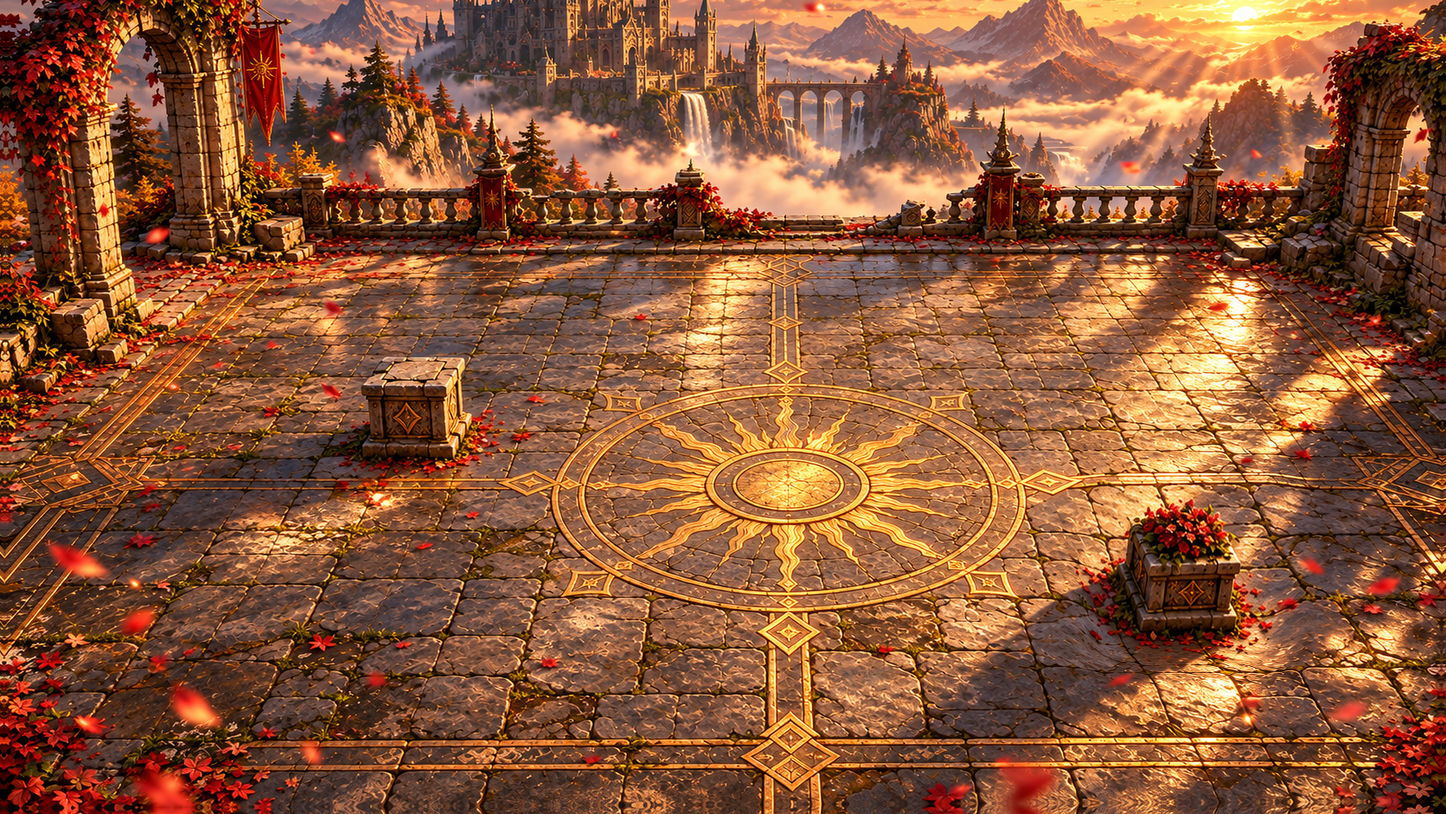
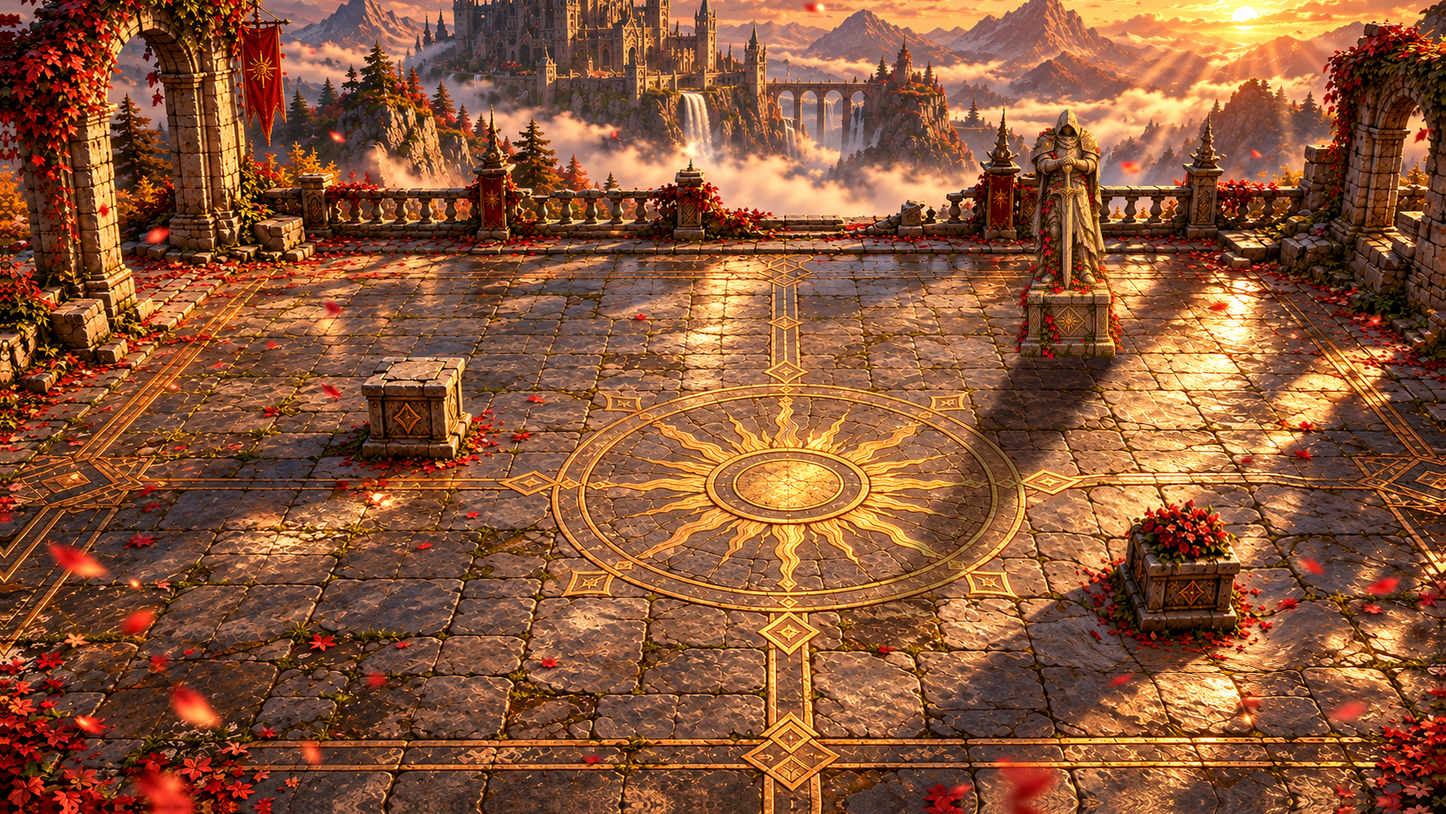
PvP arena bigger with the camera further back; a guardian statue to hide behind
- The arena is the courtyard painting shown 1.25x bigger in the world, grown about the fight's centre (the middle of the
  floor keeps its coordinates): its floor, props (heights too), spawn points, minimap and camera follow; the fighters,
  their skills and every combat number stay as they are — 25% more room each way, the fighters smaller on screen
- A tall guardian statue at the back right (GPT, painted into the stage with a long sunset shadow): hard cover — it hides
  whoever stands behind it, blocks the way and projectiles, nobody jumps over it
- The living stage builds in the painting's pixels inside layers placed like the painting (its own cloud shadows now;
  the old ambience is not used in the arena)

Claude-Session: https://claude.ai/code/session_019q8CMrxghbNzj8w42KsHoP

Changed region(s): [[0.5909, 0.1233, 0.7775, 0.8013]]

diff --git a/src/world/StageFx.ts b/src/world/StageFx.ts
@@ -133,7 +133,15 @@ interface Drifter { o: Phaser.GameObjects.Image; vx: number; vy: number; w: numb
 interface Bird { o: Phaser.GameObjects.Image; vx: number; vy: number; t: number; fps: number }
 
 export class StageFx {
+  /** Layers by depth, each placed (and scaled) like the painting in the world: everything inside is in its pixels. */
+  private layers = new Map<number, Phaser.GameObjects.Container>();
+  private lay(depth: number): Phaser.GameObjects.Container {
+    let c = this.layers.get(depth);
+    if (!c) { c = this.scene.add.container(this.at.x, this.at.y).setScale(this.at.s).setDepth(depth); this.layers.set(depth, c); }
+    return c;
+  }
   private far: Phaser.GameObjects.Container;
+  private shade: Phaser.GameObjects.TileSprite;
   private farMask: Phaser.GameObjects.Graphics;
   private clouds: Drifter[] = [];
   private mists: { o: Phaser.GameObjects.TileSprite; v: number }[] = [];
@@ -152,46 +160,56 @@ export class StageFx {
   private readonly W: number;
   private readonly H: number;
 
-  constructor(private scene: Phaser.Scene, private look: StageLook, W: number, H: number) {
+  /** W x H: the painting's size; `at`: where it is in the world and how much bigger it is shown there. */
+  constructor(private scene: Phaser.Scene, private look: StageLook, W: number, H: number, private at = { x: 0, y: 0, s: 1 }) {
     makeTextures(scene);
     this.W = W; this.H = H;
     const L = look, r = rng(3);
     // the far background: clouds, mist and birds, behind the balustrade and the arches
-    this.far = scene.add.container(0, 0).setDepth(-0.95);
-    this.farMask = scene.make.graphics({}, false);
+    this.far = this.lay(-0.95);
+    this.farMask = scene.make.graphics({}, false).setPosition(this.at.x, this.at.y).setScale(this.at.s);
     this.farMask.fillStyle(0xffffff).fillPoints(L.far.map(([x, y]) => new Phaser.Math.Vector2(x, y)), true);
     this.far.setMask(this.farMask.createGeometryMask());
     for (let i = 0; i < 6; i++) {
-      const o = scene.add.image(r() * W, L.sky[0] + r() * (L.sky[1] - L.sky[0]), T.cloud).setTint(L.cloudTint).setAlpha(0.18 + r() * 0.2).setScale(0.9 + r() * 1.1, 0.7 + r() * 0.6);
+      const o = scene.make.image({ x: r() * W, y: L.sky[0] + r() * (L.sky[1] - L.sky[0]), key: T.cloud }, false).setTint(L.cloudTint).setAlpha(0.18 + r() * 0.2).setScale(0.9 + r() * 1.1, 0.7 + r() * 0.6);
       this.far.add(o); this.clouds.push({ o, vx: 5 + r() * 9, vy: 0, w: o.displayWidth });
     }
     for (const [i, v] of [[0, 7], [1, 13]] as const) { // two banks of valley mist, the nearer one quicker
-      const [y0, y1] = L.mist, o = scene.add.tileSprite(0, y0 + i * 18, W, y1 - y0, T.mist).setOrigin(0, 0).setTint(L.mistTint).setAlpha(i ? 0.32 : 0.42);
+      const [y0, y1] = L.mist, o = scene.make.tileSprite({ x: 0, y: y0 + i * 18, width: W, height: y1 - y0, key: T.mist }, false).setOrigin(0, 0).setTint(L.mistTint).setAlpha(i ? 0.32 : 0.42);
       o.setTileScale(1.2 - i * 0.25, 0.7); this.far.add(o); this.mists.push({ o, v });
     }
     // the sun: a soft flare and god rays fanning down to the left, each sweeping a little and breathing
     const [sx, sy] = L.sun;
     const rk = L.rays ?? 1, rt = L.rayTint ?? 0xffd590;
-    this.flare = scene.add.image(sx, sy, T.glow).setDepth(-0.45).setBlendMode(Phaser.BlendModes.ADD).setTint(L.rayTint ?? 0xffe2a8).setScale(2.6, 2.2).setAlpha(0.22 * rk);
+    this.flare = scene.make.image({ x: sx, y: sy, key: T.glow }, false).setBlendMode(Phaser.BlendModes.ADD).setTint(L.rayTint ?? 0xffe2a8).setScale(2.6, 2.2).setAlpha(0.22 * rk);
+    this.lay(-0.45).add(this.flare);
     const RAYS: [number, number, number, number][] = [[24, 150, 0.05, 1250], [33, 230, 0.042, 1350], [42, 120, 0.06, 1300], [51, 200, 0.04, 1400], [61, 140, 0.047, 1250], [70, 260, 0.032, 1150]];
     RAYS.forEach(([a, w, al, len], i) => {
-      const o = scene.add.image(sx, sy, T.ray).setOrigin(0.5, 0).setDepth(-0.45).setBlendMode(Phaser.BlendModes.ADD).setTint(rt)
+      const o = scene.make.image({ x: sx, y: sy, key: T.ray }, false).setOrigin(0.5, 0).setBlendMode(Phaser.BlendModes.ADD).setTint(rt)
         .setAngle(a).setScale(w / 128, len / 1024).setAlpha(al * rk);
+      this.lay(-0.45).add(o);
       this.rays.push({ o, a, al: al * rk, p: 11000 + i * 1700, ph: r() * Math.PI * 2 });
     });
-    // warm light drifting over the floor
-    this.light = scene.add.tileSprite(0, L.floorTop, W, H - L.floorTop, T.light).setOrigin(0, 0).setDepth(-0.55)
+    // cloud shadows and warm light drifting over the floor
+    this.shade = scene.make.tileSprite({ x: 0, y: L.floorTop, width: W, height: H - L.floorTop, key: T.light }, false).setOrigin(0, 0)
+      .setBlendMode(Phaser.BlendModes.MULTIPLY).setTint(0x2a2f3c).setAlpha(0.28);
+    this.shade.setTileScale(2.6, 1.4);
+    this.lay(-0.6).add(this.shade);
+    this.light = scene.make.tileSprite({ x: 0, y: L.floorTop, width: W, height: H - L.floorTop, key: T.light }, false).setOrigin(0, 0)
       .setBlendMode(Phaser.BlendModes.ADD).setTint(L.lightTint).setAlpha(0.1);
     this.light.setTileScale(2.2, 1.1);
+    this.lay(-0.55).add(this.light);
     // the floor emblem: a breathing glow and light running round its rings
     const E = L.emblem;
     if (E) {
       const [ex, ey] = E.c;
-      this.glow = scene.add.image(ex, ey, T.glow).setDepth(-0.55).setBlendMode(Phaser.BlendModes.ADD).setTint(L.emblemTint ?? 0xffc860)
+      this.glow = scene.make.image({ x: ex, y: ey, key: T.glow }, false).setBlendMode(Phaser.BlendModes.ADD).setTint(L.emblemTint ?? 0xffc860)
         .setScale((E.outer[0] * 2.3) / 256, (E.outer[1] * 2.3) / 256).setAlpha(0.1);
+      this.lay(-0.55).add(this.glow);
       for (const [ring, v, al] of [[E.outer, 0.00055, 0.42], [E.inner, -0.0009, 0.55]] as const) {
-        const img = scene.add.image(0, 0, T.ring).setBlendMode(Phaser.BlendModes.ADD).setTint(L.emblemTint ?? 0xffd27a).setAlpha(al).setScale(ring[0] / 240);
-        const box = scene.add.container(ex, ey, [img]).setDepth(-0.54).setScale(1, ring[1] / ring[0]);
+        const img = scene.make.image({ x: 0, y: 0, key: T.ring }, false).setBlendMode(Phaser.BlendModes.ADD).setTint(L.emblemTint ?? 0xffd27a).setAlpha(al).setScale(ring[0] / 240);
+        const box = scene.make.container({ x: ex, y: ey }, false).add(img).setScale(1, ring[1] / ring[0]);
+        this.lay(-0.54).add(box);
         this.sweeps.push({ box, img, v });
       }
     }
@@ -200,7 +218,7 @@ export class StageFx {
     for (let i = 0; i < F.n; i++) {
       const front = i % 4 === 0, tint = F.tints[i % F.tints.length];
       const d = (o: Phaser.GameObjects.Image, vx: number, vy: number, extra: Partial<Drifter> = {}) => this.leaves.push({ o, vx, vy, w: 40, spin: 0, sway: 0, ph: r() * Math.PI * 2, ...extra });
-      const at = (key: string) => scene.add.image(r() * W, r() * H, key).setTint(tint).setDepth(front ? 89000 : -0.4);
+      const at = (key: string) => { const o = scene.make.image({ x: r() * W, y: r() * H, key }, false).setTint(tint); this.lay(front ? 89000 : -0.4).add(o); return o; };
       switch (F.kind) {
         case 'leaf': case 'petal': {
           const s = (front ? 0.9 : 0.55) + r() * 0.4, o = at(F.kind === 'leaf' ? T.leaf : T.petal).setScale(s).setAlpha(front ? 0.95 : 0.8);
@@ -212,7 +230,7 @@ export class StageFx {
         case 'ember': { const o = at(T.dot).setScale(0.1 + r() * 0.12).setBlendMode(Phaser.BlendModes.ADD); d(o, (r() - 0.3) * 30, -(30 + r() * 50), { sway: 16 + r() * 20 }); break; }
       }
     }
-    if (L.lightning) this.flash = scene.add.rectangle(0, 0, W, H * 2, 0xdfe8ff, 0).setOrigin(0, 0).setDepth(88990).setBlendMode(Phaser.BlendModes.ADD);
+    if (L.lightning) { this.flash = new Phaser.GameObjects.Rectangle(scene, -W, -H, W * 3, H * 4, 0xdfe8ff, 1).setOrigin(0, 0).setAlpha(0).setBlendMode(Phaser.BlendModes.ADD); this.lay(88990).add(this.flash); }
   }
 
   private flock(): void {
@@ -220,7 +238,7 @@ export class StageFx {
     const y0 = L.sky[0] + 30 + r() * (L.mist[0] - L.sky[0] - 20), v = (fromLeft ? 1 : -1) * (38 + r() * 30), s = 0.45 + r() * 0.45;
     for (let i = 0; i < n; i++) { // a loose V
       const back = Math.ceil(i / 2) * (i % 2 ? 1 : -1);
-      const o = this.scene.add.image((fromLeft ? 160 : this.W - 160) - Math.sign(v) * Math.abs(back) * 26 * s * 1.6, y0 + back * 9 * s, `${key}0`)
+      const o = this.scene.make.image({ x: (fromLeft ? 160 : this.W - 160) - Math.sign(v) * Math.abs(back) * 26 * s * 1.6, y: y0 + back * 9 * s, key: `${key}0` }, false)
         .setTint(L.fliers === 'bats' ? 0x10121c : 0x3a2222).setAlpha(0.85).setScale(s * (0.85 + r() * 0.3));
       o.setData('k', key);
       this.far.add(o); this.birds.push({ o, vx: v * (0.95 + r() * 0.1) * (L.fliers === 'bats' ? 1.4 : 1), vy: (r() - 0.5) * 4, t: r() * 1000, fps: (7 + r() * 4) * (L.fliers === 'bats' ? 1.8 : 1) });
@@ -246,6 +264,7 @@ export class StageFx {
       r.o.setAngle(r.a + 2.5 * k).setAlpha(r.al * (1 + 0.35 * Math.sin((t / (r.p * 0.7)) * Math.PI * 2 + r.ph * 2)));
     }
     this.light.tilePositionX += 6 * s; this.light.tilePositionY += 2 * s;
+    this.shade.tilePositionX += 9 * s; this.shade.tilePositionY += 3 * s;
     this.light.setAlpha(0.07 + 0.025 * Math.sin((t / 9000) * Math.PI * 2));
     this.glow?.setAlpha(0.1 + 0.06 * Math.sin((t / 4200) * Math.PI * 2));
     for (const w of this.sweeps) w.img.rotation += w.v * ms;
@@ -278,9 +297,9 @@ export class StageFx {
   }
 
   destroy(): void {
-    this.far.clearMask(true); this.far.destroy(true); this.farMask.destroy();
-    this.flare.destroy(); this.rays.forEach((r) => r.o.destroy()); this.light.destroy(); this.glow?.destroy();
-    this.sweeps.forEach((w) => w.box.destroy(true)); this.leaves.forEach((l) => l.o.destroy()); this.flash?.destroy();
+    this.far.clearMask(true); this.farMask.destroy();
+    for (const c of this.layers.values()) c.destroy(true);
+    this.layers.clear();
     this.clouds = []; this.birds = []; this.rays = []; this.sweeps = []; this.leaves = [];
   }
 }

diff --git a/src/scenes/LegacyCourtyardScene.ts b/src/scenes/LegacyCourtyardScene.ts
@@ -30,7 +30,9 @@ import { PartyUI, PartyView } from '../ui/PartyUI';
 import { addExp, expToNext } from '../game/Progression';
 import { passiveIconUrl, passivesFor } from '../skills/Passives';
 import { LEVITATE, NO_PASSIVES, ORBS, PassiveStats, REGEN, SHINSOKU, WAR_LEAP, WEAVE, ownedPassives, passiveStats } from '../skills/Passives';
-import { SKILL_BLOCKERS, WORLD_OBJECTS, actorDepth, supportAt, footAllowed, insideArena, placementOk, pushOutOfBlockers, useArenaGeometry } from '../world/WorldGeometry';
+import { SKILL_BLOCKERS, WORLD_OBJECTS, actorDepth, arenaPt, arenaRect, supportAt, footAllowed, insideArena, placementOk, pushOutOfBlockers, useArenaGeometry } from '../world/WorldGeometry';
+/** The arena's spawn points (PVP.spawnPoints are on the courtyard painting: shown bigger in the arena). */
+const arenaSpawns = (): { x: number; y: number }[] => PVP.spawnPoints.map((p) => { const [x, y] = arenaPt(p.x, p.y); return { x, y }; });
 import { OpenWorld, preloadOpenWorld } from '../world/OpenWorld';
 import { AreaNpc, IDLE_LINES, MOB_KINDS, QUESTS, QuestDef, START, TOWERS, CLOUDS, SKY, SKY_DROP, HEIGHTS, type Tower, toWorld } from '../world/Areas';
 import type { Monster } from '../world/Monster';
@@ -300,7 +302,7 @@ export class LegacyCourtyardScene extends Phaser.Scene {
   private arenaZoom = 1;
   private arenaLift = 0;
   private arenaCam(what: 'in' | 'out' | 'up' | 'down' | 'reset'): void {
-    if (what === 'in' || what === 'out') this.arenaZoom = Phaser.Math.Clamp(this.arenaZoom * (what === 'out' ? 0.93 : 1 / 0.93), Math.max(0.8, this.cameras.main.width / (WORLD.coordinateSpace.width * this.baseZoom)), 1.5)   // never wider than the arena's picture;
+    if (what === 'in' || what === 'out') this.arenaZoom = Phaser.Math.Clamp(this.arenaZoom * (what === 'out' ? 0.93 : 1 / 0.93), Math.max(0.8, this.cameras.main.width / (arenaRect().w * this.baseZoom)), 1.5)   // never wider than the arena's picture;
     else if (what === 'up' || what === 'down') this.arenaLift = Phaser.Math.Clamp(this.arenaLift + (what === 'up' ? 30 : -30), -180, 180);
     else { this.arenaZoom = 1; this.arenaLift = 0; }
     if (this.koT < 0) this.cameras.main.zoomTo(this.baseZoom * this.arenaZoom, 160, 'Sine.easeOut', true);
@@ -468,37 +470,37 @@ export class LegacyCourtyardScene extends Phaser.Scene {
     // Map + camera (contain: one area fills the screen), crisp pixels.
     const T = ATLAS.textures;
     const cam = this.cameras.main;
-    cam.setZoom(Math.min(cam.width / WORLD.camera.worldWidth, cam.height / WORLD.camera.worldHeight));
+    const AR = pvpRoom ? arenaRect() : null; // the arena: the courtyard painting shown bigger (more room, the camera further back)
+    cam.setZoom(Math.min(cam.width / (WORLD.camera.worldWidth * (AR?.s ?? 1)), cam.height / (WORLD.camera.worldHeight * (AR?.s ?? 1))));
     cam.setRoundPixels(true);
     this.baseZoom = cam.zoom; this.koT = -1;
     // Very low density warm dust drifting in the sun (never over telegraphs: faint, small, sparse).
-    this.motes = addMotes(this, { x: 60, y: 220, w: WORLD.coordinateSpace.width - 120, h: WORLD.coordinateSpace.height - 260 }, 7,
+    this.motes = addMotes(this, AR ? { x: AR.x + 60 * AR.s, y: AR.y + 220 * AR.s, w: AR.w - 120 * AR.s, h: AR.h - 260 * AR.s } : { x: 60, y: 220, w: WORLD.coordinateSpace.width - 120, h: WORLD.coordinateSpace.height - 260 }, 7,
       { depth: 1500, tint: 0xffd9a0, size: [5, 9], speed: [3, 8], drift: 10, alpha: 0.32 });
     this.quests = CharacterStore.getQuests(character.id);
     if (pvpRoom) {
       useArenaGeometry();
-      const mapKey = this.stage?.key ?? T.map.key;
-      this.add.image(0, 0, mapKey).setOrigin(0, 0).setDepth(-1);
+      const mapKey = this.stage?.key ?? T.map.key, R = AR!;
+      this.add.image(R.x, R.y, mapKey).setOrigin(0, 0).setScale(R.s).setDepth(-1);
       // The skill tray covers the bottom of the screen: the camera follows you up / down so the whole floor stays
       // playable above it; below the map the floor is mirrored and darkened (only ever seen under the HUD).
-      const W = WORLD.coordinateSpace.width, H = WORLD.coordinateSpace.height, extra = Math.ceil(ARENA_HUD_PX / cam.zoom);
-      this.add.image(0, H, mapKey).setOrigin(0, 0).setFlipY(true).setDepth(-1.1);
-      this.add.rectangle(0, H, W, extra, 0x05080e, 0.45).setOrigin(0, 0).setDepth(-1.05);
-      cam.setBounds(0, 0, W, H + extra);
-      this.camTarget.set(W / 2, this.kin ? this.kin.y : H / 2);
+      const W = R.w, H = R.h, extra = Math.ceil(ARENA_HUD_PX / cam.zoom);
+      this.add.image(R.x, R.y + H, mapKey).setOrigin(0, 0).setScale(R.s).setFlipY(true).setDepth(-1.1);
+      this.add.rectangle(R.x, R.y + H, W, extra, 0x05080e, 0.45).setOrigin(0, 0).setDepth(-1.05);
+      cam.setBounds(R.x, R.y, W, H + extra);
+      this.camTarget.set(R.x + W / 2, this.kin ? this.kin.y : R.y + H / 2);
       cam.startFollow(this.camTarget, true, 0, 0.09);
-      cam.centerOn(W / 2, H / 2);
+      cam.centerOn(R.x + W / 2, R.y + H / 2);
       this.arenaZoom = 1; this.arenaLift = 0;
       this.input.on('wheel', (_p: unknown, _o: unknown, _dx: number, dy: number) => this.arenaCam(dy > 0 ? 'out' : 'in'));
       this.input.keyboard?.on('keydown-PAGE_UP', () => this.arenaCam('up')); this.input.keyboard?.on('keydown-PAGE_DOWN', () => this.arenaCam('down'));
       this.input.keyboard?.on('keydown-HOME', () => this.arenaCam('reset'));
-      this.ambience = new CourtyardAmbience(this, WORLD.coordinateSpace.width, WORLD.coordinateSpace.height);
-      if (this.stage) this.stageFx = new StageFx(this, this.stage.look, WORLD.coordinateSpace.width, WORLD.coordinateSpace.height);
+      if (this.stage) this.stageFx = new StageFx(this, this.stage.look, WORLD.coordinateSpace.width, WORLD.coordinateSpace.height, R); // (its own light, cloud shadows and weather)
       // Baked-map occlusion: each prop silhouette is redrawn from the map at its footprint depth (no floor crop).
       this.occluders = WORLD_OBJECTS.map((o) => {
         const g = this.make.graphics({}, false);
         g.fillStyle(0xffffff).fillPoints(o.occluder.map(([x, y]) => new Phaser.Geom.Point(x, y)), true);
-        return this.add.image(0, 0, mapKey).setOrigin(0, 0).setDepth(o.frontY).setMask(g.createGeometryMask());
+        return this.add.image(R.x, R.y, mapKey).setOrigin(0, 0).setScale(R.s).setDepth(o.frontY).setMask(g.createGeometryMask());
       });
     } else {
       // The open world: one long world left to right, the camera following you along it.
@@ -754,7 +756,7 @@ export class LegacyCourtyardScene extends Phaser.Scene {
     this.updateBot(ms, now);
     this.updateMatch(real, ms);
     this.reactionFx(ms);
-    if (this.pvp || this.arena) this.camTarget.set(WORLD.coordinateSpace.width / 2, this.kin.y + 70 - this.arenaLift); // keep yourself above the tray
+    if (this.pvp || this.arena) this.camTarget.set(arenaRect().x + arenaRect().w / 2, this.kin.y + 70 - this.arenaLift); // keep yourself above the tray
     this.renderPlayer(this.fx.hitStopLeft > 0 ? 0 : ms);
     this.updateWorldUi(ms);
     this.bubbles?.update(now, (id) => {
@@ -3038,7 +3040,7 @@ export class LegacyCourtyardScene extends Phaser.Scene {
       this.botAwayMs += ms;
       if (this.botAwayMs < (this.waitFoe ? PVP.foeWaitMs : 1200)) return;
       this.waitFoe = false;
-      const k = this.kin, pts = PVP.spawnPoints.filter((p) => footAllowed(p.x, p.y, 0, R));
+      const k = this.kin, pts = arenaSpawns().filter((p) => footAllowed(p.x, p.y, 0, R));
       const sp = pts.reduce((best, p) => (Math.hypot(p.x - k.x, p.y - k.y) > Math.hypot(best.x - k.x, best.y - k.y) && Math.hypot(p.x - k.x, p.y - k.y) < 700 ? p : best), pts[0]);
       this.spawnBot(sp.x, sp.y, now);
       this.chat?.add({ kind: 'system', text: `${this.botName()} entered the arena (sparring partner while you are alone).` });
@@ -3356,7 +3358,7 @@ export class LegacyCourtyardScene extends Phaser.Scene {
   private freeSpawnPoint(): { x: number; y: number } {
     const others = [...(this.pvp?.remotes.values() ?? [])].filter((r) => r.alive).map((r) => ({ x: r.x, y: r.y }));
     if (this.bot) others.push({ x: this.bot.x, y: this.bot.y });
-    const pts = PVP.spawnPoints.filter((s) => footAllowed(s.x, s.y, 0, R));
+    const pts = arenaSpawns().filter((s) => footAllowed(s.x, s.y, 0, R));
     const clearance = (s: { x: number; y: number }) => Math.min(Infinity, ...others.map((o) => Math.hypot(o.x - s.x, o.y - s.y)));
     const free = pts.filter((s) => clearance(s) >= PVP.spawnClearRadius);
     if (free.length) return free[Math.floor(Math.random() * free.length)];
@@ -3794,9 +3796,9 @@ export class LegacyCourtyardScene extends Phaser.Scene {
 
   /** The arena's minimap: a square of the courtyard around you (its full height). */
   private arenaMinimap(markers: HudMarker[]): HudState['minimap'] {
-    const W = WORLD.coordinateSpace.width, H = WORLD.coordinateSpace.height, side = H;
-    const minX = Phaser.Math.Clamp(this.kin.x - side / 2, 0, Math.max(0, W - side));
-    return { label: WORLD.name, imageUrl: ATLAS.textures.map.file, image: { x: 0, y: 0, w: W, h: H }, markers, bounds: { minX, minY: 0, width: side, height: side } };
+    const A = arenaRect(), side = A.h;
+    const minX = Phaser.Math.Clamp(this.kin.x - side / 2, A.x, Math.max(A.x, A.x + A.w - side));
+    return { label: this.stage?.name ?? WORLD.name, imageUrl: this.stage?.file ?? ATLAS.textures.map.file, image: { x: A.x, y: A.y, w: A.w, h: A.h }, markers, bounds: { minX, minY: A.y, width: side, height: side } };
   }
 
   private hudState(): HudState {

diff --git a/src/world/WorldGeometry.ts b/src/world/WorldGeometry.ts
@@ -43,6 +43,13 @@ const COURTYARD_OBJECTS: WorldObject[] = [
     height: 62, topZ: 62, cover: 'hard', frontY: 723,
     occluder: [[1300, 602], [1334, 582], [1376, 584], [1418, 609], [1435, 643], [1438, 690], [1435, 723], [1313, 723], [1297, 694], [1291, 655], [1293, 615]],
   },
+  {
+    // the guardian statue at the back right: tall stone cover to hide behind (nobody jumps over it or stands on it)
+    id: 'guardian-statue',
+    footprint: [[1182, 368], [1288, 368], [1288, 412], [1182, 412]],
+    height: 290, cover: 'hard', frontY: 413,
+    occluder: [[1233, 126], [1226, 132], [1220, 147], [1210, 148], [1209, 152], [1202, 154], [1192, 184], [1197, 192], [1196, 205], [1202, 217], [1191, 265], [1195, 273], [1196, 294], [1201, 304], [1190, 309], [1189, 329], [1179, 339], [1182, 345], [1178, 354], [1182, 353], [1182, 363], [1187, 365], [1179, 377], [1181, 383], [1172, 397], [1178, 395], [1174, 404], [1183, 412], [1288, 412], [1292, 402], [1298, 405], [1294, 399], [1297, 394], [1289, 385], [1290, 382], [1296, 386], [1296, 378], [1289, 371], [1293, 370], [1291, 363], [1285, 366], [1289, 340], [1281, 327], [1282, 315], [1277, 308], [1273, 309], [1268, 304], [1278, 291], [1268, 247], [1274, 238], [1269, 208], [1272, 173], [1263, 154], [1249, 148], [1241, 130]],
+  },
 ];
 /** Props of the area you are in. Replaced in place (setWorldGeometry) — importers keep this same array. */
 export const WORLD_OBJECTS: WorldObject[] = [...COURTYARD_OBJECTS];
@@ -56,8 +63,26 @@ export function setWorldGeometry(walk: readonly Pt[], objects: readonly WorldObj
   WORLD_OBJECTS.length = 0; WORLD_OBJECTS.push(...objects);
 }
 export const walkPolygon = (): readonly Pt[] => POLY;
-/** The PvP arena: the closed Legacy Courtyard floor and its two props. */
-export const useArenaGeometry = (): void => setWorldGeometry(WORLD.walkablePolygon as Pt[], COURTYARD_OBJECTS);
+/** The PvP arena is the courtyard painting shown `scale` times bigger in the world — more room to move, the camera
+ *  further back — grown about the fight's centre (cx, cy), so the middle of the floor keeps its coordinates. Its floor,
+ *  props (their heights too: they are painted bigger) and spawn points follow; the fighters, their skills and every
+ *  combat number stay as they are. */
+export const ARENA_VIEW = { scale: 1.25, cx: 850, cy: 640 } as const;
+/** A point of the courtyard painting (its pixels) in the arena's world. */
+export const arenaPt = (x: number, y: number): Pt => [ARENA_VIEW.cx + (x - ARENA_VIEW.cx) * ARENA_VIEW.scale, ARENA_VIEW.cy + (y - ARENA_VIEW.cy) * ARENA_VIEW.scale];
+/** The painting's rectangle in the arena's world. */
+export const arenaRect = (): { x: number; y: number; w: number; h: number; s: number } => {
+  const [x, y] = arenaPt(0, 0), s = ARENA_VIEW.scale;
+  return { x, y, w: WORLD.coordinateSpace.width * s, h: WORLD.coordinateSpace.height * s, s };
+};
+const arenaPoly = (p: Pt[]): Pt[] => p.map(([x, y]) => arenaPt(x, y));
+const arenaObject = (o: WorldObject): WorldObject => ({
+  ...o, footprint: arenaPoly(o.footprint), occluder: arenaPoly(o.occluder), frontY: arenaPt(0, o.frontY)[1],
+  height: o.height * ARENA_VIEW.scale, topZ: o.topZ === undefined ? undefined : o.topZ * ARENA_VIEW.scale,
+  ...(o.base ? { base: arenaPoly(o.base) } : {}),
+});
+/** The PvP arena: the closed Legacy Courtyard floor and its props, at the arena's size. */
+export const useArenaGeometry = (): void => setWorldGeometry(arenaPoly(WORLD.walkablePolygon as Pt[]), COURTYARD_OBJECTS.map(arenaObject));
 
 export function pointInPoly(x: number, y: number, poly: readonly Pt[]): boolean {
   let c = false;
